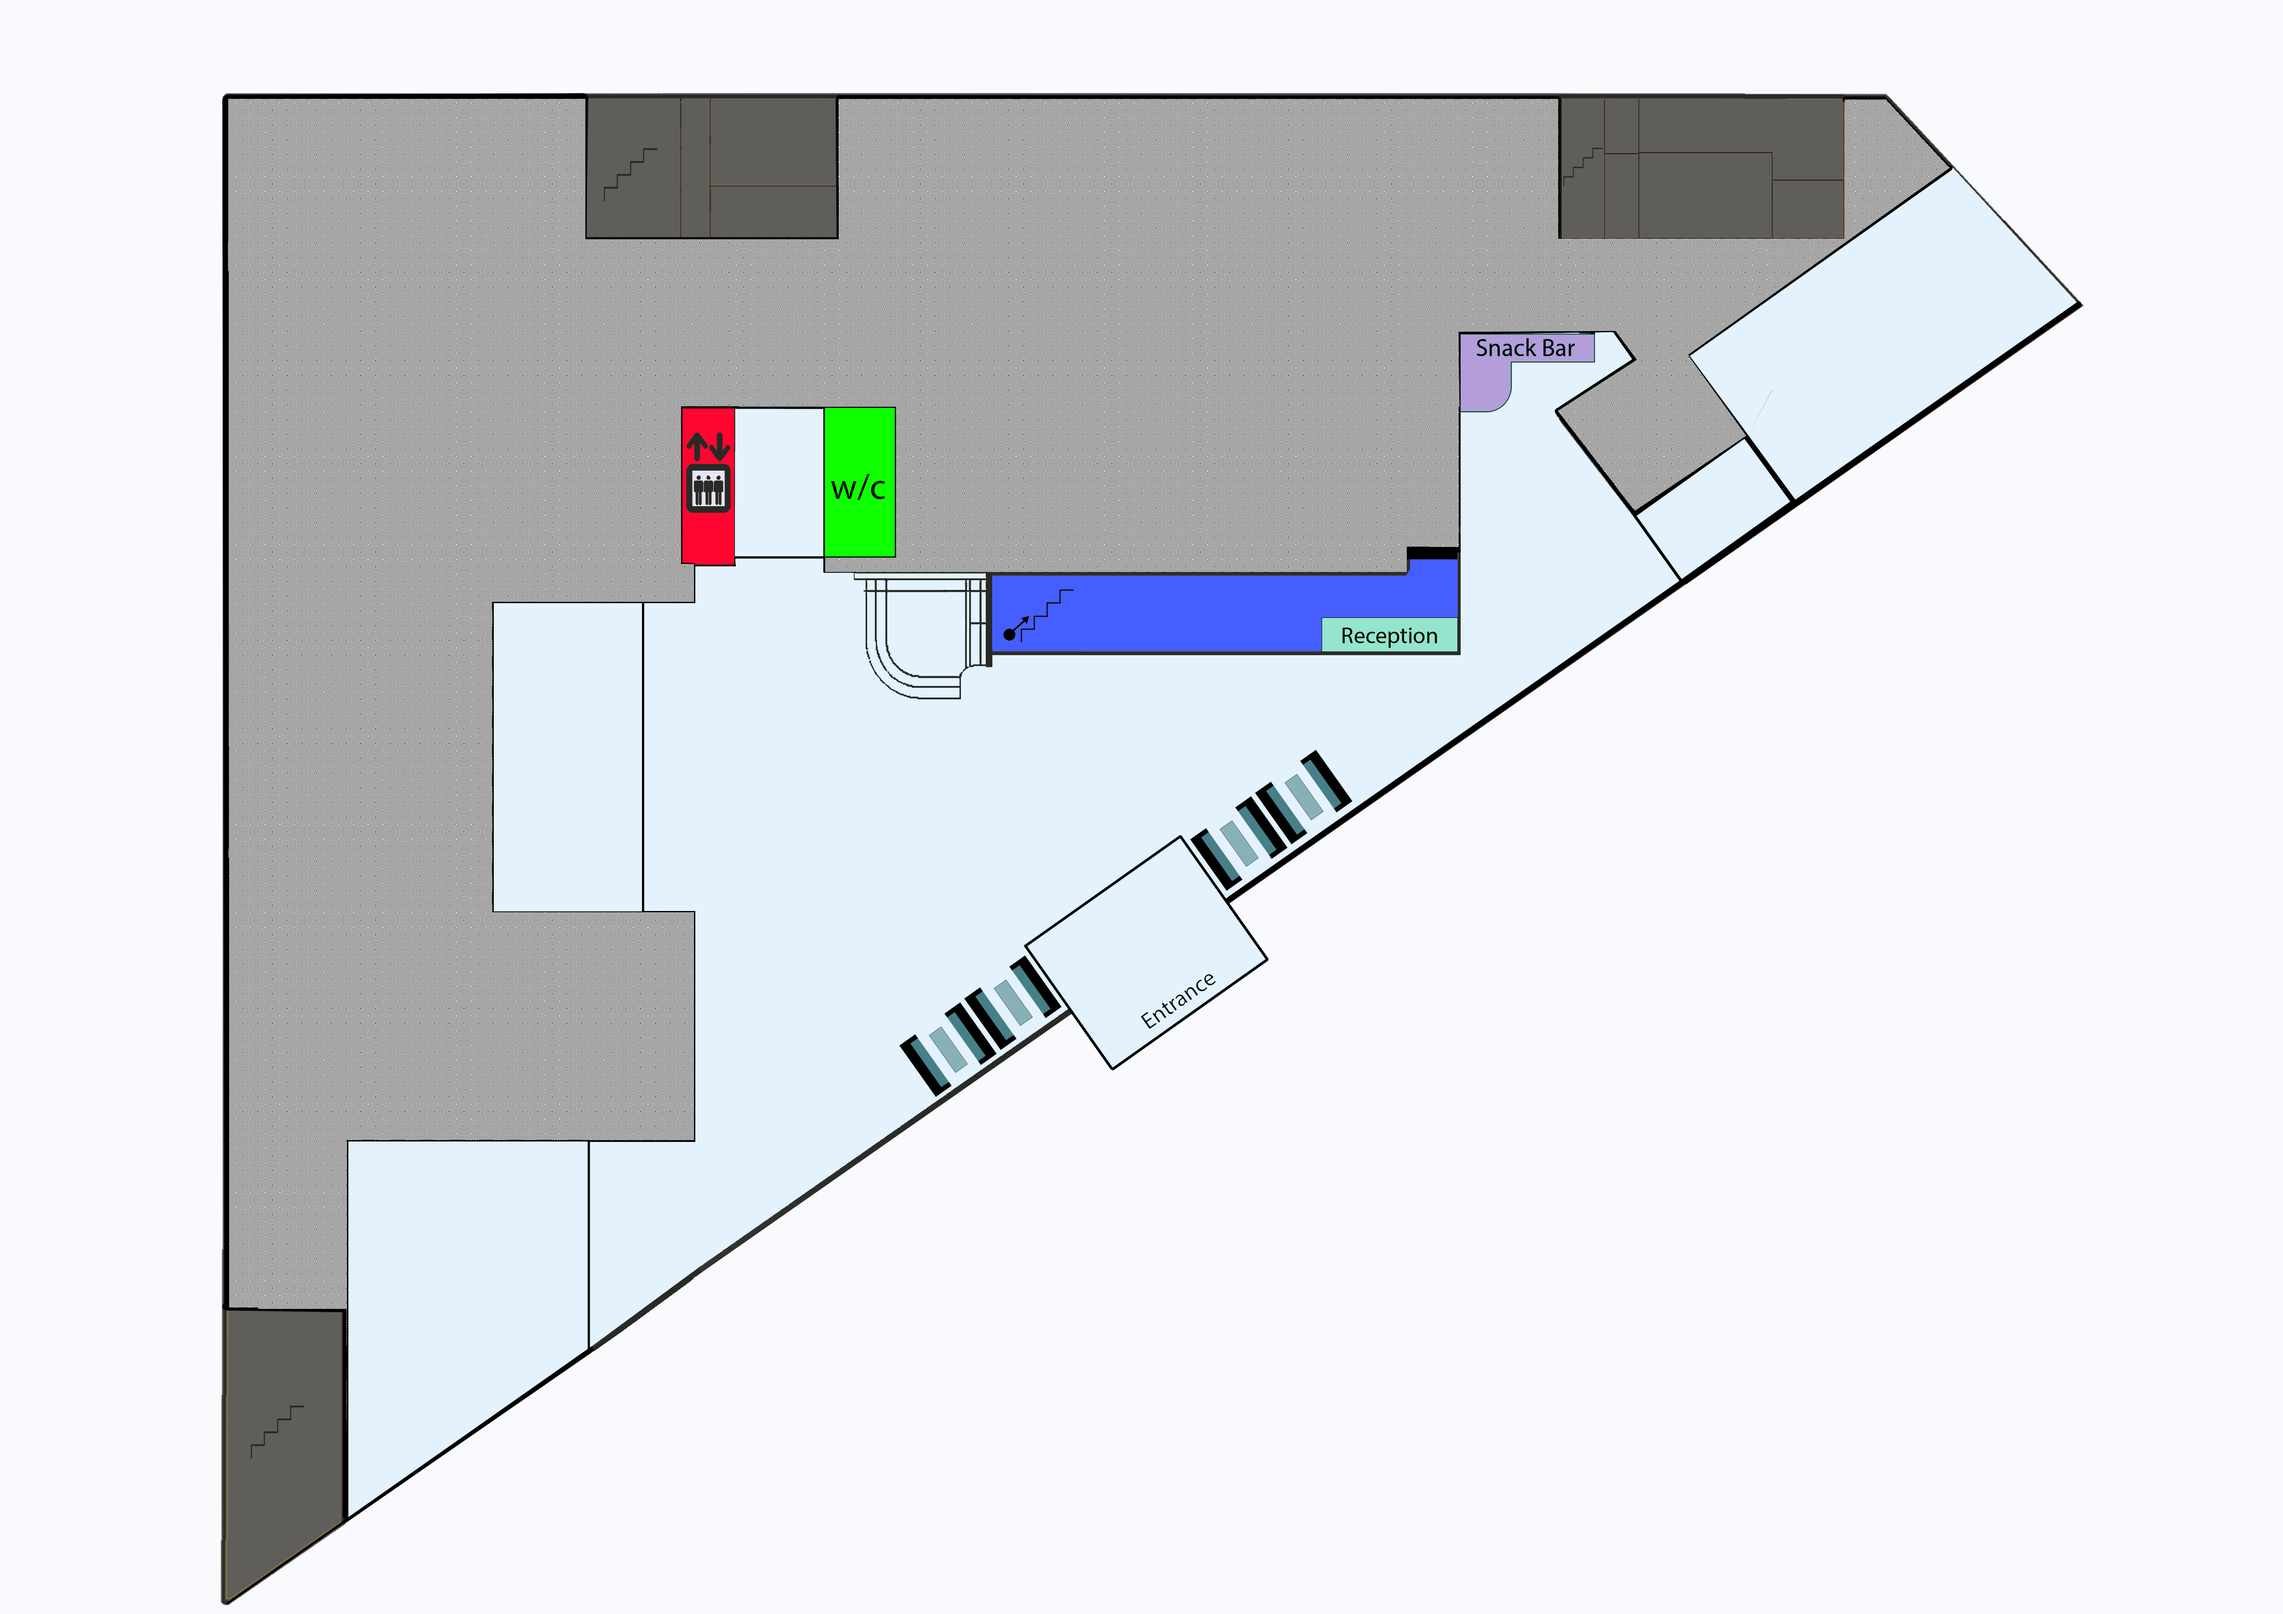
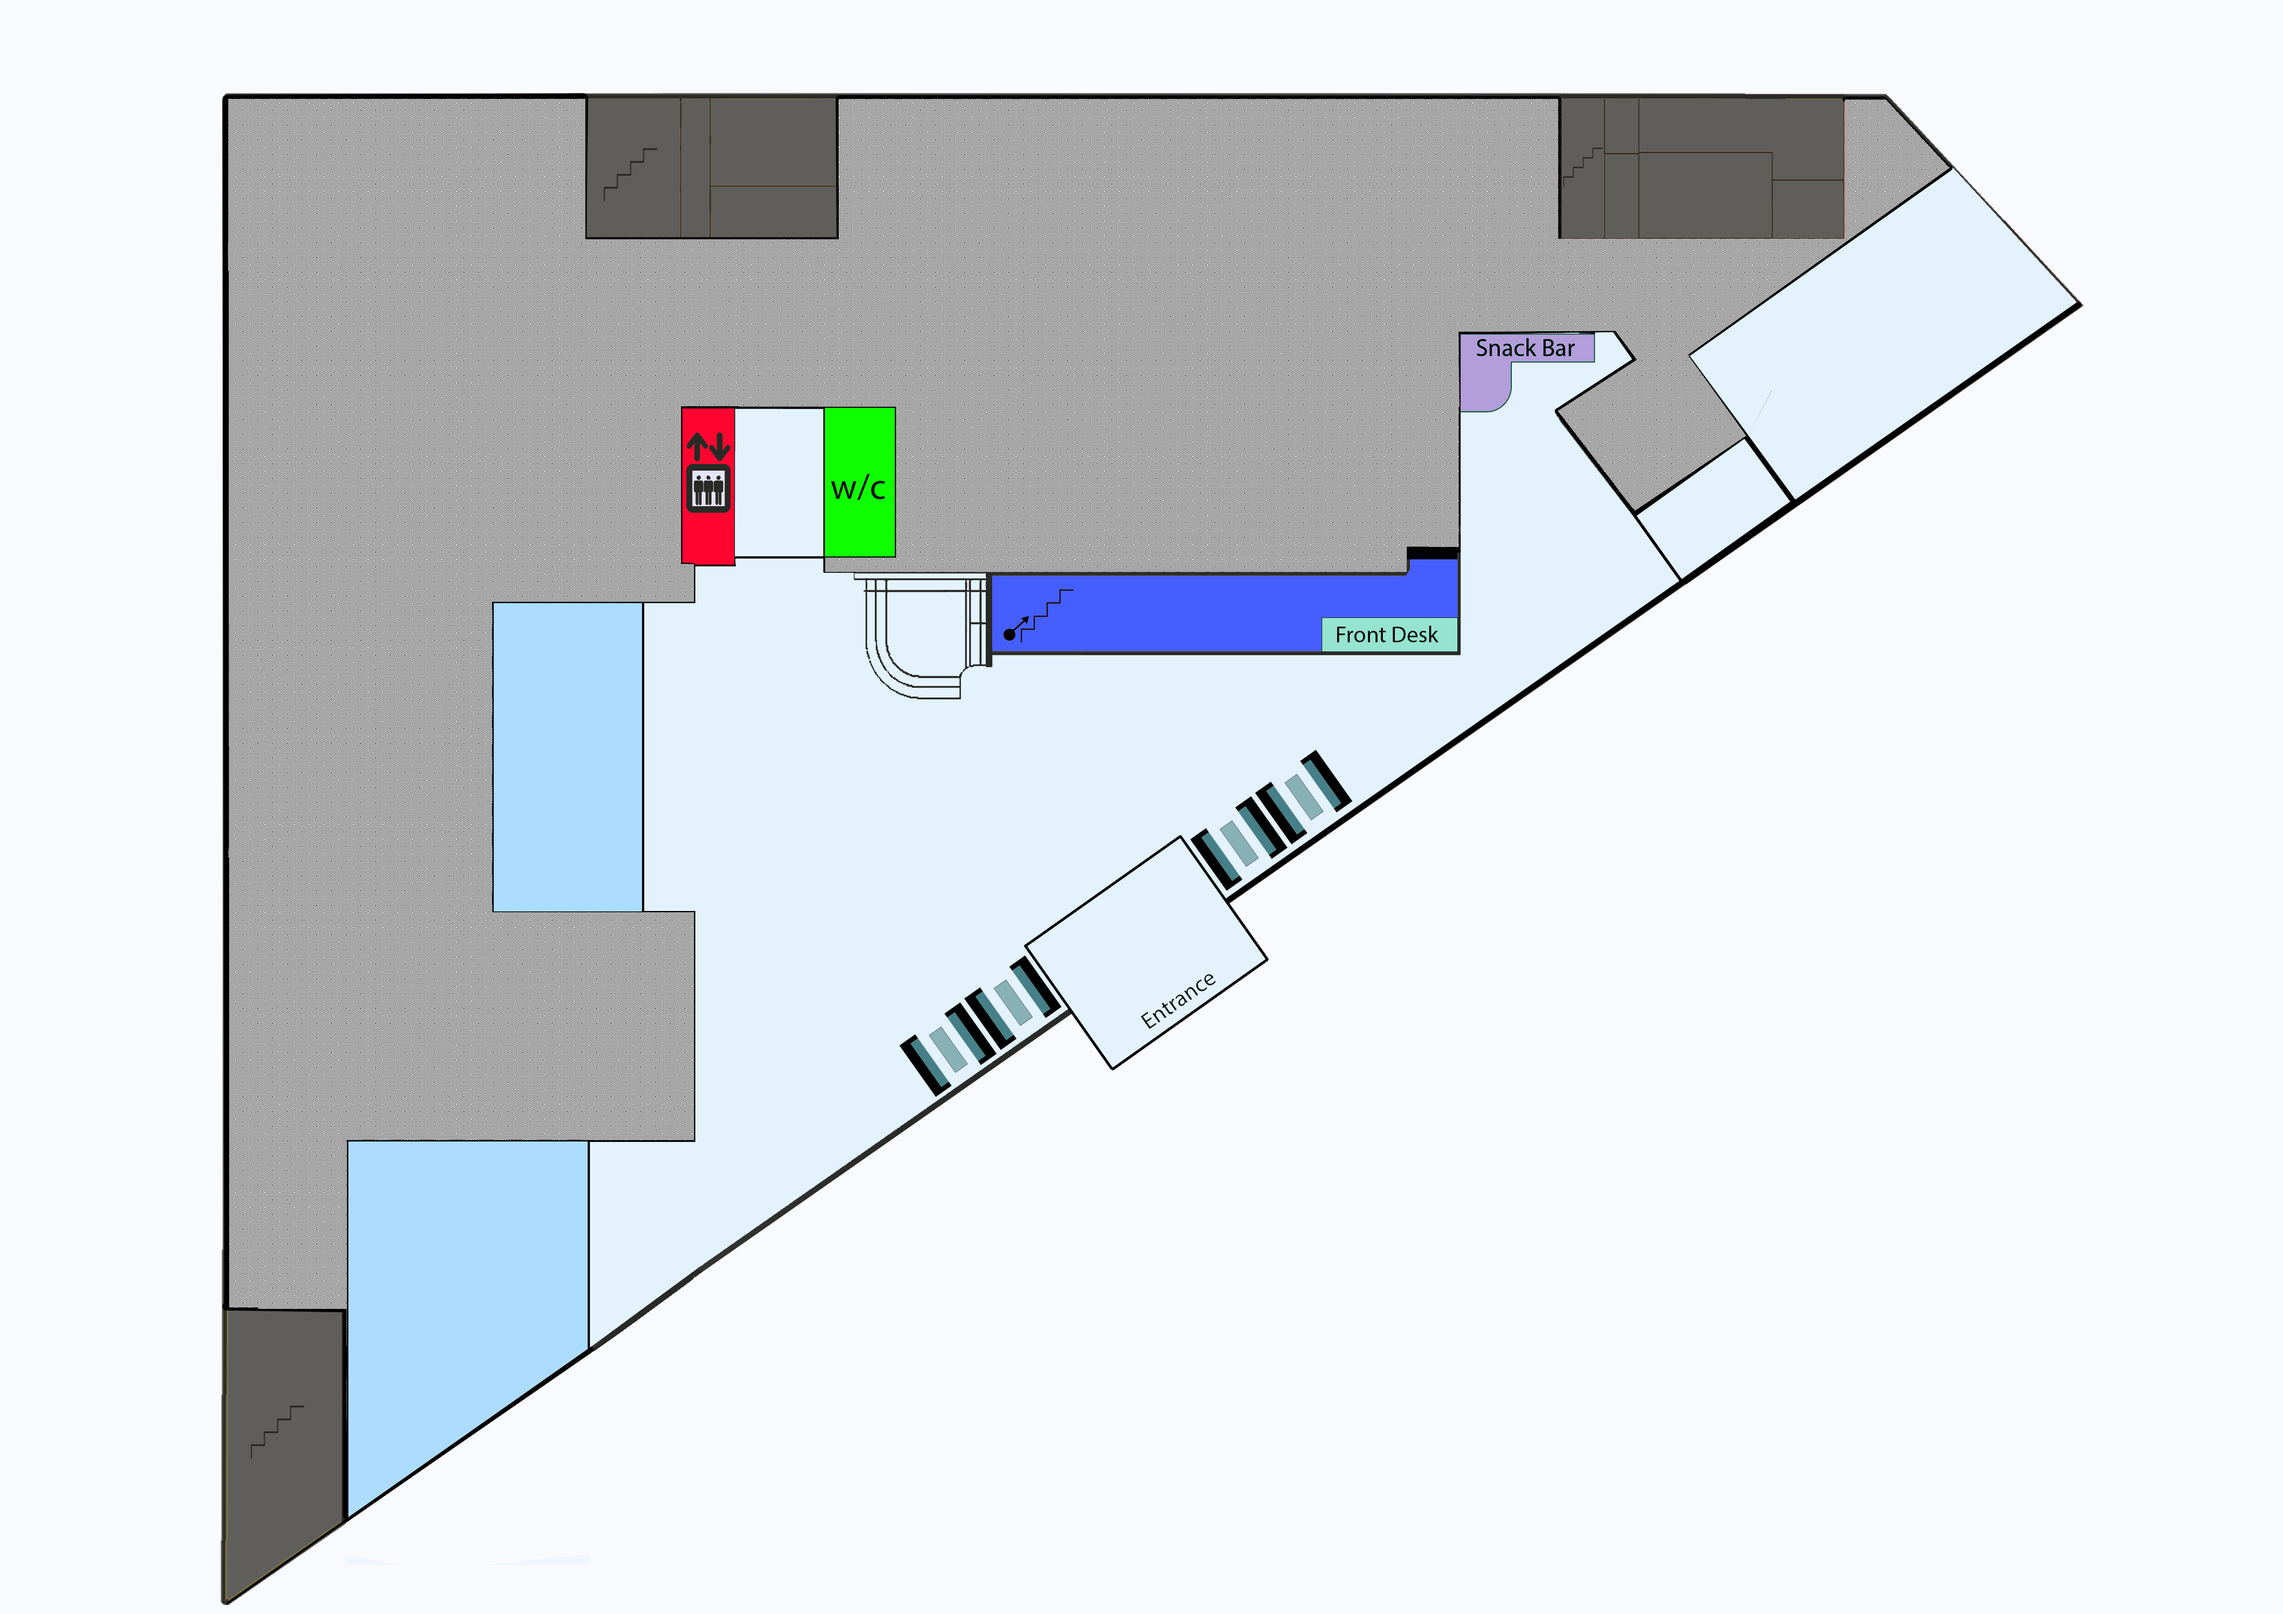
Version 1.2.4
- Fixes room 2.038 (directions not being drawn)
- Updated floor 0 maps with "Front Desk" instead of "Reception"

Changed region(s): [[0.125, 0.6836, 0.2812, 0.9322], [0.2187, 0.3729, 0.2812, 0.5904], [0.5936, 0.3729, 0.6249, 0.4039]]

diff --git a/app/src/main/java/com/example/grigo/usb_explore/MapActivity.java b/app/src/main/java/com/example/grigo/usb_explore/MapActivity.java
@@ -123,7 +123,7 @@ public class MapActivity extends AbstractFragmentsActivity {
         floorList.get(2).addRoom(new Room("2.026", new Coord(1470, 753), new Coord(1742, 870), new Coord(1605, 761), r2026));
         Node r2027 = new Node(new Coord(1434, 687), 2);
         floorList.get(2).addRoom(new Room("2.027", new Coord(1475, 622), new Coord(1746, 739), new Coord(1601, 635), r2027));
-        Node r2038 = new Node(new Coord(2624, 564), 2);
+        Node r2038 = new Node(new Coord(2624, 572), 2);
         floorList.get(2).addRoom(new Room("2.038", new Coord(1817, 407), new Coord(3374, 505), new Coord(2656, 420), r2038));
         Node r2039 = new Node(new Coord(1889, 429), 2);
         floorList.get(2).addRoom(new Room("2.039", new Coord(1812, 200), new Coord(1979, 400), new Coord(1889, 200), r2039));
@@ -143,7 +143,7 @@ public class MapActivity extends AbstractFragmentsActivity {
         floorList.get(2).addRoom(new Room("2.046", new Coord(3036, 200), new Coord(3203, 400), new Coord(3108, 200), r2046));
         Node r2047 = new Node(new Coord(3275, 429), 2);
         floorList.get(2).addRoom(new Room("2.047", new Coord(3212, 200), new Coord(3375, 400), new Coord(3275, 200), r2047));
-        Node r2048 = new Node(new Coord(2624, 564), 2);
+        Node r2048 = new Node(new Coord(2624, 572), 2);
         floorList.get(2).addRoom(new Room("2.048", new Coord(2692, 517), new Coord(4503, 901), new Coord(3317, 607), r2048));
         Node r2060 = new Node(new Coord(3874, 979), 2);
         floorList.get(2).addRoom(new Room("2.060", new Coord(3524, 928), new Coord(3890, 1257), new Coord(3704, 1040), r2060));
@@ -433,7 +433,7 @@ public class MapActivity extends AbstractFragmentsActivity {
         floorList.get(2).addNode(p215);
         Node p216 = new Node(new Coord(1397, 687), 2);
         floorList.get(2).addNode(p216);
-        Node p217 = new Node(new Coord(1397, 632), 2);
+        Node p217 = new Node(new Coord(1397, 587), 2);
         floorList.get(2).addNode(p217);
         Node p218 = new Node(new Coord(1397, 572), 2);
         floorList.get(2).addNode(p218);
@@ -726,6 +726,11 @@ public class MapActivity extends AbstractFragmentsActivity {
         roomMap.addEdge(r2039, p222);
         roomMap.addEdge(r2040, p223);
         roomMap.addEdge(r2041, p224);
+
+        // fixes for room 2.038
+        //roomMap.addEdge(r2038, p224);
+        roomMap.addEdge(r2038, p220);
+
         roomMap.addEdge(r2042, p225);
         roomMap.addEdge(r2043, p226);
         roomMap.addEdge(r2044, p227);
@@ -752,7 +757,10 @@ public class MapActivity extends AbstractFragmentsActivity {
         roomMap.addEdge(p217, p218);
         roomMap.addEdge(p217, p219);
         roomMap.addEdge(p218, p220);
+
+        // fixes for room 2.038
         roomMap.addEdge(p220, p224);
+
         roomMap.addEdge(p222, p223);
         roomMap.addEdge(p223, p224);
         roomMap.addEdge(p224, p225);

diff --git a/app/src/main/java/com/example/grigo/usb_explore/search.java b/app/src/main/java/com/example/grigo/usb_explore/search.java
@@ -3,6 +3,7 @@ package com.example.grigo.usb_explore;
 import android.content.Intent;
 import android.graphics.Color;
 import android.os.Bundle;
+import android.os.Handler;
 import android.support.design.widget.FloatingActionButton;
 import android.support.design.widget.Snackbar;
 import android.support.v7.app.AppCompatActivity;
@@ -23,6 +24,7 @@ import java.lang.reflect.Array;
 import java.util.ArrayList;
 import java.util.Map;
 import java.util.logging.Level;
+import java.util.logging.LogRecord;
 
 /**
  * Created by Tanmoy on 18/10/2017.
@@ -40,7 +42,7 @@ public class search extends AppCompatActivity{
         ArrayAdapter arrayAdapter;
         String roomNo = "";
         String level = "";
-        Boolean notFound;
+        Boolean notFound = false;
         int count;
 
     @Override
@@ -78,6 +80,7 @@ public class search extends AppCompatActivity{
                 dbr.addListenerForSingleValueEvent(new ValueEventListener() {
                     @Override
                     public void onDataChange(DataSnapshot dataSnapshot) {
+
                         // for each room
                         count = 0;
                         for (int i = 0; i < numberOfRooms; i++) {
@@ -113,6 +116,7 @@ public class search extends AppCompatActivity{
                                 }
                             } catch (Exception e) { //if not found
                                 list[0] = "Staff member or room not found!";
+                                notFound = true;
                             }
                         }
                         // display the new data using a new array adapter
@@ -120,9 +124,19 @@ public class search extends AppCompatActivity{
                         listView.setAdapter(arrayAdapter2);
                     }
                     public void onCancelled(DatabaseError er){ // if there's a database error - likely connection failure
-                        list[0] = ("No internet connection available!");
+                        list[0] = ("Please check your internet connection!");
                     }
                 });
+
+                if (!notFound) {
+                    final Handler handler = new Handler();
+                    handler.postDelayed(new Runnable() {
+                        @Override
+                        public void run() {
+                            list[0] = ("Please check your internet connection!");
+                        }
+                    }, 2000);
+                }
                 return false;
             }
 

diff --git a/app/src/main/java/com/example/grigo/usb_explore/HomePageActivity.java b/app/src/main/java/com/example/grigo/usb_explore/HomePageActivity.java
@@ -189,7 +189,7 @@ public class HomePageActivity extends AppCompatActivity
                 || WifiInfo.getDetailedStateOf(wifiInfo.getSupplicantState()) == NetworkInfo.DetailedState.OBTAINING_IPADDR) {
             ssid = wifiInfo.getSSID();
         }
-        ssid = ssid.replace("\"", "");
+        ssid = ssid.substring(1, ssid.length()-1);
         return ssid;
     }
 }

diff --git a/app/src/main/java/com/example/grigo/usb_explore/HelpActivity.java b/app/src/main/java/com/example/grigo/usb_explore/HelpActivity.java
@@ -38,7 +38,7 @@ public class HelpActivity extends AppCompatActivity {
     private HashMap<String, List<String>> listHash_Help, listHash_Help2;
     private ArrayList<String> feedbackList1, faqList2, termsList2,aboutList2;
 
-    String versionNumber = "1.2.3";
+    String versionNumber = "1.2.4";
     String versionDate = "02/05/2018";
 
     @Override
